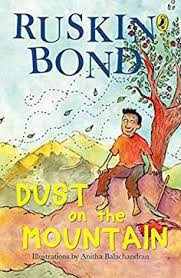
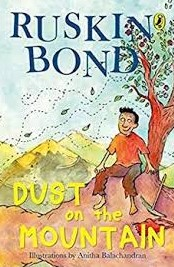
ui

diff --git a/home.html b/home.html
@@ -37,10 +37,95 @@
       <div class="hero">
         <h1 class="hero-title">Explore and Share Amazing Books</h1>
         <p class="hero-text">Join ShelfShare and embark on a journey through the world of literature.</p>
+        <section class="features">
+          <div class="feature">
+              <img src="./images/colstack.png" alt="Feature 1 Icon">
+              <h3>Wide Book Selection</h3>
+              <p>Choose from a vast collection of books across different genres.</p>
+          </div>
+      
+          <div class="feature">
+              <img src="./images/options.svg" alt="Feature 2 Icon">
+              <h3>Flexible Rental Options</h3>
+              <p>Rent books on a weekly basis with affordable pricing.</p>
+          </div>
+      
+          <div class="feature">
+              <img src="./images/share.svg" alt="Feature 3 Icon">
+              <h3>Easy Sharing</h3>
+              <p>Share your own books with other book enthusiasts effortlessly.</p>
+          </div>
+      
+          <div class="feature">
+              <img src="./images/profile.png" alt="Feature 4 Icon">
+              <h3>User Profiles</h3>
+              <p>Create and manage your profile, keep track of your rentals, and more.</p>
+          </div>
+      </section>
+      
        
       </div>
     </div>
+    
   </header>
+
+  <main class="container">
+    <section class="catalog">
+      <h2>Newly Added</h2>
+      <div class="book-container">
+        <div class="book">
+          <img src="./books/atomic-habits.jpg" alt="Book 1">
+          <p>Atomic Habits - James Clear</p>
+        </div>
+        <div class="book">
+          <img src="./images/book1.jpeg" alt="Book 1">
+          <p>EINSTEIN - Walter Issacson</p>
+        </div>
+        <div class="book">
+          <img src="./images/book2.jpeg" alt="Book 2">
+          <p>Dust On The Mountain - Ruskin Bond</p>
+        </div>
+        <div class="book">
+          <img src="./images/book3.jpeg" alt="Book 3">
+          <p>The Great Gatsby - F. Scott Fizgerald</p>
+        </div>
+        <div class="book">
+          <img src="./images/book4.jpg" alt="Book 4">
+          <p>Wings Of Fire - A.P.J. Abdul Kalam</p>
+        </div>
+        <div class="book">
+          <img src="./images/book5.jpeg" alt="Book 5">
+          <p>Doglapan - Ashneer Grover</p>
+        </div>
+        <div class="book" data-genre="Fiction">
+          <img src="./books/book6.jpeg" alt="Book 1">
+          <p>To Kill a Mockingbird - Harper Lee</p>
+        </div>
+        <div class="book" data-genre="Non-Fiction">
+        <img src="./books/29.jpg" alt="Book 26">
+        <p>Sapiens: A Brief History of Humankind - Yuval Noah Harari</p>
+        </div>
+        <div class="book" data-genre="Romance">
+        <img src="./books/25.jpeg" alt="Book 21">
+        <p>Outlander - Diana Gabaldon</p>
+        </div>
+        <div class="book" data-genre="Mystery/Thriller">
+        <img src="./books/20.jpg" alt="Book 16">
+        <p>The Girl with the Dragon Tattoo - Stieg Larsson</p>
+        </div>
+        <div class="book" data-genre="Fantasy">
+        <img src="./books/17.jpg" alt="Book 12">
+        <p>Harry Potter and the Sorcerer's Stone - J.K. Rowling</p>
+        </div>
+        <div class="book" data-genre="Science Fiction">
+        <img src="./books/12.webp" alt="Book 8">
+        <p>Ender's Game - Orson Scott Card</p>
+        </div>
+      </div>
+      
+      
+    </section>
+  </main>
   
   <main class="container">
     <section class="catalog">

diff --git a/css/styles.css b/css/styles.css
@@ -1,4 +1,5 @@
-@import url('https://fonts.googleapis.com/css2?family=Acme&family=Lobster&family=Lora:ital,wght@1,500&family=Play&family=Rajdhani:wght@300;700&display=swap');
+
+  @import url('https://fonts.googleapis.com/css2?family=Acme&family=Croissant+One&family=Lobster&family=Lora:ital,wght@1,500&family=Play&family=Rajdhani:wght@300;700&display=swap');
 
 body {
     font-family: monospace, sans-serif;
@@ -14,7 +15,10 @@ body, h1, h2, h3, p, ul {
 
 
 .taskbar {
-  background-color: #8D7B68;
+  background: #1D4350;  /* fallback for old browsers */
+  background: -webkit-linear-gradient(to right, #A43931, #1D4350);  /* Chrome 10-25, Safari 5.1-6 */
+  background: linear-gradient(to right, #A43931, #1D4350); /* W3C, IE 10+/ Edge, Firefox 16+, Chrome 26+, Opera 12+, Safari 7+ */
+  
   height: fit-content;
   display: flex;
   align-items: center;
@@ -75,9 +79,11 @@ body, h1, h2, h3, p, ul {
     display: block;
   margin-left: auto;
   margin-right: auto;
+  margin-bottom: -20px;
   }
   
   .container {
+
     font-size: large;
     max-width: 1200px;
     margin: 0 auto;
@@ -85,7 +91,8 @@ body, h1, h2, h3, p, ul {
   }
   
   .header1 {
-    background-image: url(bg.jpg);
+    background-image: linear-gradient( 135deg, #F05F57 10%, #360940 100%);
+    background-image: url(back1.png);
     color: #fff;
   }
   
@@ -125,19 +132,22 @@ body, h1, h2, h3, p, ul {
   .hero {
     text-align: center;
     padding: 100px 0;
+   
   }
   
   .hero-title {
-    font-family: 'Lora', serif;
+    font-family: 'Croissant One', cursive;
     font-weight:700;
-    font-size: 36px;
+    font-size: 60px;
     margin-bottom: 20px;
+    
   }
   
   .hero-text {
-    font-family: 'Lora', serif;
+    font-family: 'Croissant One', cursive;
     font-weight:300;
-    font-size: 18px;
+    font-size: 25px;
+    margin-top: 30px;
     margin-bottom: 30px;
   }
   
@@ -227,3 +237,53 @@ body, h1, h2, h3, p, ul {
   }
 
   
+/* Add this CSS to your styles.css or a separate CSS file */
+
+/* Feature Cards Container */
+.features {
+  display: flex;
+  justify-content: space-around;
+  align-items: center;
+  padding: 40px 0;
+  color: black;
+  font-family:'Play', sans-serif;
+}
+
+/* Feature Card Styling */
+.feature {
+  background-color: white;
+  border: 1px solid #ddd;
+  border-radius: 5px;
+  margin: 10px;
+  padding: 15px;
+  text-align: center;
+  max-width: 200px;
+  box-shadow: 0px 4px 8px rgba(0, 0, 0, 0.2);
+  transition: transform 0.3s ease;
+  flex: 0 0 auto;
+  border-radius: 5px;
+  overflow: hidden;
+  position: relative;
+}
+
+.feature img {
+  width: auto;
+  height: 100px; 
+  margin-bottom: 10px;
+  background-color: transparent;
+}
+
+.feature h3 {
+  font-size: 1.2rem;
+  margin-bottom: 10px;
+}
+
+.feature p {
+  font-size: 1rem;
+}
+
+/* Hover effect (optional) */
+.feature:hover {
+  transform: translateY(-5px);
+  box-shadow: 0 5px 15px rgba(0, 0, 0, 0.3);
+}

diff --git a/index.html b/index.html
@@ -29,15 +29,41 @@
     <nav class="navbar">
       <div class="container">
         
-        <img class="fit-picture" src="./images/book-s4.jpg" alt="ShelfShare">
-        <img class="fit-picture" src="./images/book-s2.png" alt="people sharing books image">
+        <img class="fit-picture" src="./images/shelfshare.png" alt="ShelfShare">
       </div>
     </nav>
     <div class="container">
       <div class="hero">
+        
+      
         <h1 class="hero-title">Explore and Share Amazing Books</h1>
         <p class="hero-text">Join ShelfShare and embark on a journey through the world of literature.</p>
         <a href="register.html" class="btn btn-primary">Get Started</a>
+        <section class="features">
+          <div class="feature">
+              <img src="./images/colstack.png" alt="Feature 1 Icon">
+              <h3>Wide Book Selection</h3>
+              <p>Choose from a vast collection of books across different genres.</p>
+          </div>
+      
+          <div class="feature">
+            <img src="./images/options.svg" alt="Feature 2 Icon">
+            <h3>Flexible Rental Options</h3>
+            <p>Rent books on a weekly basis with affordable pricing.</p>
+        </div>
+    
+        <div class="feature">
+            <img src="./images/share.svg" alt="Feature 3 Icon">
+            <h3>Easy Sharing</h3>
+            <p>Share your own books with other book enthusiasts effortlessly.</p>
+        </div>
+      
+          <div class="feature">
+              <img src="./images/profile.png" alt="Feature 4 Icon">
+              <h3>User Profiles</h3>
+              <p>Create and manage your profile, keep track of your rentals, and more.</p>
+          </div>
+      </section>
       </div>
     </div>
   </header>

diff --git a/css/browse.css b/css/browse.css
@@ -16,13 +16,17 @@ body {
 
 /*----------------*/
 .taskbar {
-    background-color: #8D7B68;
+  background: #1D4350;
+  background: -webkit-linear-gradient(to right, #A43931, #1D4350);
+  background: linear-gradient(to right, #A43931, #1D4350); 
+  
     height: fit-content;
     display: flex;
     align-items: center;
     justify-content: space-between;
     padding: 10px 20px;
     color: hsl(0, 4%, 5%);
+    position: static;
   }
   
   .logo img {
@@ -115,6 +119,7 @@ header h1 {
 }
 
 .book {
+  font-family: 'Play', sans-serif;
   background-color: white;
   border: 1px solid #ddd;
   border-radius: 5px;
@@ -122,12 +127,14 @@ header h1 {
   padding: 15px;
   text-align: center;
   max-width: 250px;
+  min-height: 400px;
   box-shadow: 0px 4px 8px rgba(0, 0, 0, 0.2);
   transition: transform 0.3s ease;
   flex: 0 0 auto;
   border-radius: 5px;
   overflow: hidden;
   position: relative;
+  column-width: 250px;
 }
 
 .book:hover {
@@ -141,12 +148,12 @@ header h1 {
 }
 
 .book h2 {
-    font-size: 24px;
+    font-size: 18px;
     margin: 10px 0;
 }
 
 .book p {
-    font-size: 16px;
+    font-size: 14px;
     margin: 5px 0;
 }
 

diff --git a/browse.html b/browse.html
@@ -50,7 +50,7 @@
         </div>
 
         <div class="book" data-genre="Fiction">
-            <img src="./images/book2.jpeg" alt="Book 2">
+            <img src="./images/book2.jpg" alt="Book 2">
             <h2>Dust on the Mountain</h2>
             <p>Author: Ruskin Bond</p>
             <p>Genre: Fiction</p>
@@ -97,13 +97,6 @@
                 <button>Add to Cart</button>
             </div>
         
-            <div class="book" data-genre="Fiction">
-                <img src="./books/book9.jpg" alt="The Catcher in the Rye">
-                <h2>The Catcher in the Rye</h2>
-                <p>Author: J.D. Salinger</p>
-                <p>Genre: Fiction</p>
-                <button>Add to Cart</button>
-            </div>
         
             <!-- Science Fiction -->
             <div class="book" data-genre="Science Fiction">

diff --git a/css/rent.css b/css/rent.css
@@ -14,7 +14,9 @@ body, h1, h2, p, label, input, button {
   
   /* Style the header */
   .taskbar {
-    background-color: #8D7B68;
+    background: #1D4350;
+    background: -webkit-linear-gradient(to right, #A43931, #1D4350);
+    background: linear-gradient(to right, #A43931, #1D4350); 
     height: fit-content;
     display: flex;
     align-items: center;

diff --git a/css/contact.css b/css/contact.css
@@ -105,7 +105,9 @@ button[type="submit"] {
 
 /*----------------*/
 .taskbar {
-  background-color: #8D7B68;
+  background: #1D4350;
+  background: -webkit-linear-gradient(to right, #A43931, #1D4350);
+  background: linear-gradient(to right, #A43931, #1D4350); 
   height: fit-content;
   display: flex;
   align-items: center;

diff --git a/register.html b/register.html
@@ -11,7 +11,7 @@
 </head>
 <body>
     <div class="wrapper">
-        <form action="">
+        <form action="connect.php" method="post">
             <h1>Sign Up</h1>
             <div class="input-box">
                 <input type="text" id="username" name="username" placeholder="Username" required>

diff --git a/connect.php b/connect.php
@@ -1,0 +1,19 @@
+<?php
+	$username = $_POST['username'];
+	$email = $_POST['email'];
+	$password = $_POST['password'];
+	// Database connection
+	$conn = new mysqli('localhost','root','','user-data');
+	if($conn->connect_error){
+		echo "$conn->connect_error";
+		die("Connection Failed : ". $conn->connect_error);
+	} else {
+		$stmt = $conn->prepare("insert into registration(username, email, password) values(?, ?, ?)");
+		$stmt->bind_param("sss",$username, $email, $password);
+		$execval = $stmt->execute();
+		echo $execval;
+		echo "Registration successfully...";
+		$stmt->close();
+		$conn->close();
+	}
+?>
